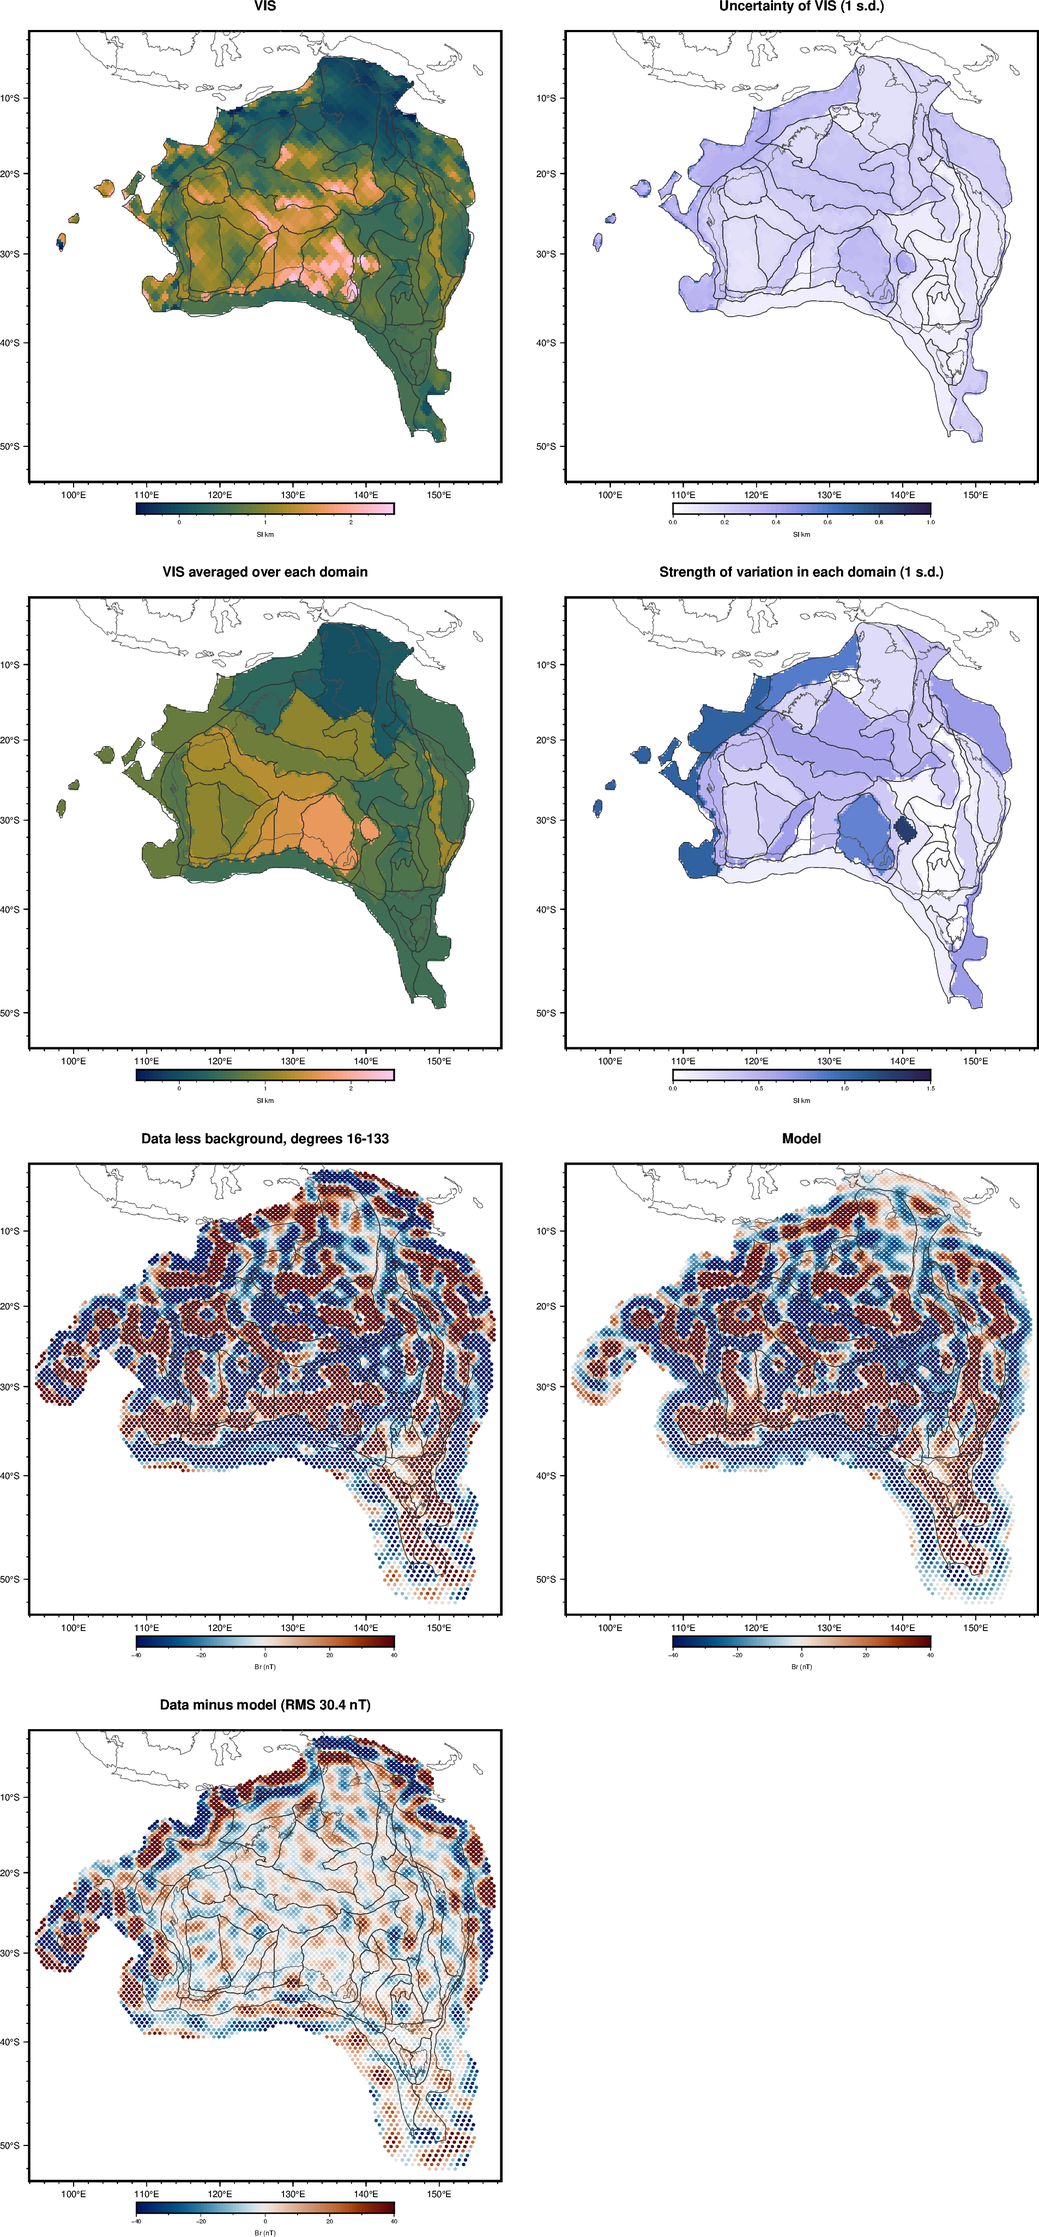
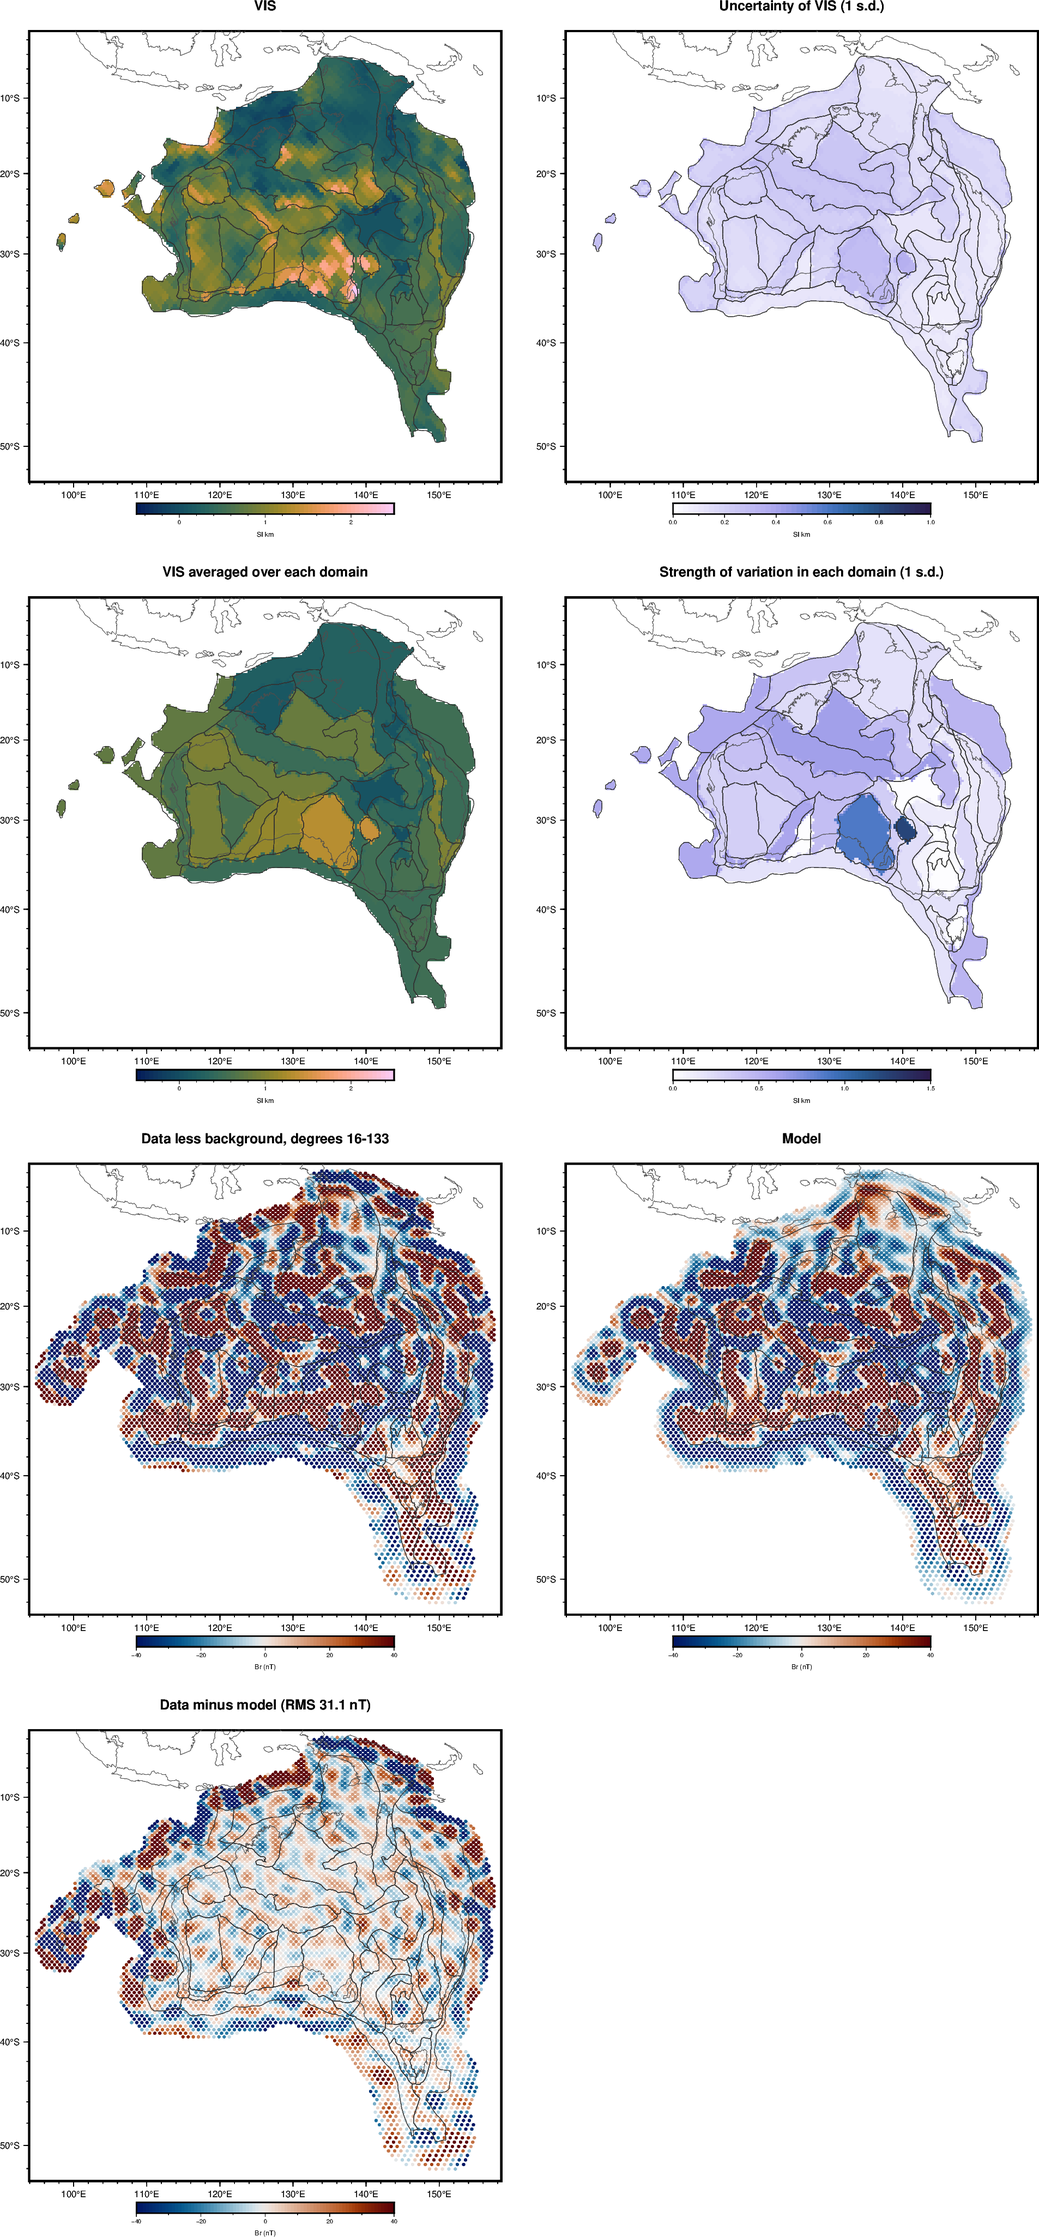
DF: a fitted extra error for the data ring around the target; profile over beta

diff --git a/remit/inversion/methods/df.py b/remit/inversion/methods/df.py
@@ -17,7 +17,11 @@ Config keys used, besides those of problem.local (weighting 'full', model_error 
   [parameterisation] kind = 'domains', table (as PD)
   [method] bounds ([lo, hi] of the means), beta_range, ell_range (km), s_range (SI km), noise ('fixed' or 'fitted'),
            hyper_sd (Laplace s.d. of the hyperparameters), layouts = {one = true, merge = <FD-merge result>,
-           merge_settings = [i, ...]} (further layouts, ranked by the evidence with the table's)
+           merge_settings = [i, ...]} (further layouts, ranked by the evidence with the table's),
+           ring_error = {beyond_km = 50} (an extra error at the data points farther than beyond_km from every cell
+           centre, i.e. the ring of points around the target: correlated with the field model's own spectrum in the
+           band, its RMS sigma_ring (nT) fitted; for errors of the background there, which no domain can explain),
+           beta_profile = [beta, ...] (the log evidence of the first layout with beta fixed at each value)
 """
 import json
 import time
@@ -64,8 +68,9 @@ def correlation(beta, ell, psi, window):
 class DomainFractal:
     """the DF model of one problem and one layout (label: domain index of each cell, 0..K-1)"""
 
-    def __init__(self, Gw, yw, label, clon, clat, cell_area_km2, lo, hi):
+    def __init__(self, Gw, yw, label, clon, clat, cell_area_km2, lo, hi, extra=()):
         self.Gw, self.yw, self.label = Gw, yw, np.asarray(label)
+        self.extra = list(extra)                    # error shapes E_j (data x data), each scaled by a fitted sigma_j
         self.K = int(self.label.max()) + 1
         self.S = parameterise.indicator(self.label)
         self.U = Gw @ self.S
@@ -96,17 +101,21 @@ class DomainFractal:
         return self._cache[key]
 
     def unpack(self, x, fit_h):
+        """x = log s_k (K), beta, log ell, [log h if fit_h], log sigma_j (one per extra error shape)"""
         s = np.exp(x[:self.K])
         beta, ell = x[self.K], np.exp(x[self.K + 1])
         h = np.exp(x[self.K + 2]) if fit_h else 1.
-        return s, beta, ell, h
+        sig = np.exp(np.asarray(x[self.K + 2 + int(fit_h):]))
+        return s, beta, ell, h, sig
 
-    def _solve(self, s, beta, ell, h):
+    def _solve(self, s, beta, ell, h, sig=()):
         M, Ls = self.factors(beta, ell)
         Ms = M*s[self.label]
         N = len(self.yw)
         C = Ms @ Ms.T
         C[np.diag_indices(N)] += h**2
+        for sj, E in zip(sig, self.extra):
+            C += sj**2*E
         cf = cho_factor(C, lower=True)
         CiU, Ciy = cho_solve(cf, self.U), cho_solve(cf, self.yw)
         A = self.U.T @ CiU
@@ -123,8 +132,8 @@ class DomainFractal:
 
     def gradient(self, x, fit_h=False):
         """(log evidence, gradient in x)"""
-        s, beta, ell, h = self.unpack(x, fit_h)
-        o = self._solve(s, beta, ell, h)
+        s, beta, ell, h, sig = self.unpack(x, fit_h)
+        o = self._solve(s, beta, ell, h, sig)
         M, CiU, q = o['M'], o['CiU'], o['q']
         N = len(self.yw)
         P = cho_solve(o['cf'], np.eye(N)) - CiU @ cho_solve(o['cA'], CiU.T)
@@ -138,21 +147,26 @@ class DomainFractal:
             g[j] = (self.evidence(x + e, fit_h) - self.evidence(x - e, fit_h))/(2*FD_STEP)
         if fit_h:
             g[self.K + 2] = h**2*(q @ q - np.trace(P))
+        for j, (sj, E) in enumerate(zip(sig, self.extra)):
+            g[self.K + 2 + int(fit_h) + j] = sj**2*(q @ E @ q - np.sum(P*E))
         return o['ll'], g
 
-    def bounds(self, s_range, beta_range, ell_range, fit_h):
+    def bounds(self, s_range, beta_range, ell_range, fit_h, sig_range=(0.1, 500.)):
         b = [tuple(np.log(s_range))]*self.K + [tuple(beta_range), tuple(np.log(ell_range))]
-        return b + [(np.log(0.2), np.log(5.))] if fit_h else b
+        return b + [(np.log(0.2), np.log(5.))]*int(fit_h) + [tuple(np.log(sig_range))]*len(self.extra)
 
     def fit(self, s_range=(1e-3, 10.), beta_range=(2., 3.), ell_range=(50., 5000.), fit_h=False, x0=None):
         if x0 is None:
-            x0 = np.r_[np.full(self.K, np.log(0.3)), np.mean(beta_range), np.log(500.), [0.] if fit_h else []]
+            x0 = np.r_[np.full(self.K, np.log(0.3)), np.mean(beta_range), np.log(500.), [0.] if fit_h else [],
+                       np.full(len(self.extra), np.log(30.))]
         bnds = self.bounds(s_range, beta_range, ell_range, fit_h)
+        x0 = np.clip(x0, [b[0] for b in bnds], [b[1] for b in bnds])
         f = lambda x: tuple(-a for a in self.gradient(x, fit_h))
         res = minimize(f, x0, jac=True, method='L-BFGS-B', bounds=bnds, options=dict(maxiter=2000, ftol=1e-11, gtol=1e-6))
-        s, beta, ell, h = self.unpack(res.x, fit_h)
-        at = np.array([np.isclose(v, lo, atol=1e-6) or np.isclose(v, hi, atol=1e-6) for v, (lo, hi) in zip(res.x, bnds)])
-        return dict(x=res.x, s=s, beta=float(beta), ell=float(ell), h=float(h), ll=float(-res.fun), fit_h=fit_h,
+        s, beta, ell, h, sig = self.unpack(res.x, fit_h)
+        at = np.array([lo < hi and (np.isclose(v, lo, atol=1e-6) or np.isclose(v, hi, atol=1e-6))
+                       for v, (lo, hi) in zip(res.x, bnds)])
+        return dict(x=res.x, s=s, beta=float(beta), ell=float(ell), h=float(h), sig=sig, ll=float(-res.fun), fit_h=fit_h,
                     at_bound=at, n_eval=int(res.nfev), converged=bool(res.success), message=str(res.message))
 
     def hyper_sd(self, fit, step=1e-3):
@@ -171,7 +185,7 @@ class DomainFractal:
 
     def posterior(self, fit, area):
         """posterior mean and s.d. of v, the process means theta, and the area mean of v over each domain"""
-        o = self._solve(fit['s'], fit['beta'], fit['ell'], fit['h'])
+        o = self._solve(fit['s'], fit['beta'], fit['ell'], fit['h'], fit.get('sig', ()))
         M, Ls, q = o['M'], o['Ls'], o['q']
         n = len(self.label)
         Lb = np.zeros((n, n))
@@ -192,8 +206,12 @@ class DomainFractal:
                     theta_sd=np.sqrt(np.diag(cov_theta)), avg=c.T @ v, avg_sd=np.sqrt(np.maximum(np.diag(cov_avg), 0)),
                     ll=o['ll'])
 
-    def no_variation(self, h=1.):
+    def no_variation(self, h=1., sig=()):
         """log evidence and chi2 with no pattern inside the domains (PD under this error model, means unbounded)"""
+        if len(sig):
+            o = self._solve(np.full(self.K, 1e-9), 2.5, 500., h, sig)
+            r = self.yw - self.U @ o['theta']
+            return o['ll'], float(r @ r), o['theta']
         N = len(self.yw)
         cA = cho_factor(self.U.T @ self.U/h**2, lower=True)
         theta = cho_solve(cA, self.U.T @ self.yw/h**2)
@@ -241,24 +259,41 @@ def run(cfg, cache=None, log=print):
     cell_km2 = 4*np.pi*R_KM**2/(12*cells.nside**2)
     lays, coverage = layouts(cells, cfg, cache, say)
     say(f'{len(lays)} layouts: {list(lays)}')
+    xyz_c, xyz_p = unit(cells.clon, cells.clat), unit(pb.plon, pb.plat)
+    dist_km = np.arccos(np.clip((xyz_p @ xyz_c.T).max(1), -1., 1.))*R_KM          # to the nearest cell centre
+    ring = dist_km > me.get('ring_error', {}).get('beyond_km', 50.)
+    extra = []
+    if me.get('ring_error'):
+        Wd = pb.W.toarray() if hasattr(pb.W, 'toarray') else np.asarray(pb.W)
+        Cr = errors.point_shape(pb.spectra['model'], pb.band, pb.plon[ring], pb.plat[ring])
+        extra = [Wd[:, ring] @ Cr @ Wd[:, ring].T]
+        say(f'ring error at {ring.sum()} of {len(ring)} points')
     ranking, main = {}, None
     for name, (label, names) in lays.items():
-        m = DomainFractal(pb.Gw, pb.yw, label, cells.clon, cells.clat, cell_km2, lo, hi)
+        m = DomainFractal(pb.Gw, pb.yw, label, cells.clon, cells.clat, cell_km2, lo, hi, extra)
         f = m.fit(fit_h=fit_h, **opts)
-        ll0, chi0, _ = m.no_variation()
+        ll0, chi0, _ = m.no_variation(sig=f['sig'])
         ranking[name] = dict(K=int(m.K), ll=f['ll'], ll_no_variation=ll0, beta=f['beta'], ell_km=f['ell'], h=f['h'],
-                             converged=f['converged'], n_eval=f['n_eval'])
+                             sigma_ring_nT=[float(v) for v in f['sig']], converged=f['converged'], n_eval=f['n_eval'])
         say(f'{name}: K {m.K}, log evidence {f["ll"]:.1f} (no variation {ll0:.1f}), beta {f["beta"]:.2f}, '
-            f'ell {f["ell"]:.0f} km, h {f["h"]:.2f}, {f["n_eval"]} evaluations' + ('' if f['converged'] else ' NOT CONVERGED'))
+            f'ell {f["ell"]:.0f} km, h {f["h"]:.2f}' + (f', ring error {f["sig"][0]:.1f} nT' if extra else '') +
+            f', {f["n_eval"]} evaluations' + ('' if f['converged'] else ' NOT CONVERGED'))
         if main is None:
             main = (name, m, f, names)
     name, m, f, names = main
+    profile = []
+    for b in me.get('beta_profile', []):
+        fb = m.fit(fit_h=fit_h, x0=np.r_[f['x'][:m.K], b, f['x'][m.K + 1:]], **{**opts, 'beta_range': (b, b)})
+        profile.append(dict(beta=float(b), ll=fb['ll'], ell_km=fb['ell'], h=fb['h'],
+                            sigma_ring_nT=[float(v) for v in fb['sig']]))
+        say(f'beta fixed at {b:.2f}: log evidence {fb["ll"]:.1f} ({fb["ll"] - f["ll"]:+.1f}), ell {fb["ell"]:.0f} km'
+            + (f', ring error {fb["sig"][0]:.1f} nT' if extra else ''))
     post = m.posterior(f, cells.area_km2)
     sd = m.hyper_sd(f) if me.get('hyper_sd', True) else np.full(len(f['x']), np.nan)
     say(f'posterior and hyperparameter s.d. of {name!r}')
     check = None
     if not fit_h:                                         # the noise scale fitted as a check
-        fh = m.fit(fit_h=True, x0=np.r_[f['x'], 0.], **opts)
+        fh = m.fit(fit_h=True, x0=np.r_[f['x'][:m.K + 2], 0., f['x'][m.K + 2:]], **opts)
         check = dict(h=fh['h'], ll=fh['ll'], beta=fh['beta'], ell_km=fh['ell'])
         say(f'check with the noise scale fitted: h {fh["h"]:.3f}, log evidence {fh["ll"]:.1f} (+{fh["ll"] - f["ll"]:.1f})')
     v, label = post['v'], m.label
@@ -268,8 +303,12 @@ def run(cfg, cache=None, log=print):
     r = pb.yw - pb.Gw @ v
     chi2 = float(r @ r)
     N = len(pb.yw)
-    ll0, chi0, _ = m.no_variation()
+    ll0, chi0, _ = m.no_variation(sig=f['sig'])
     K = m.K
+    res_pts = pb.y - pb.G @ v
+    rms = dict(onshore=float(np.sqrt(np.mean(res_pts[~ring]**2))), ring=float(np.sqrt(np.mean(res_pts[ring]**2))))
+    say(f'residual RMS: onshore {rms["onshore"]:.1f} nT, ring {rms["ring"]:.1f} nT'
+        + (f'; ring error {f["sig"][0]:.1f} nT' if extra else ''))
     table = {names[k]: dict(mean=float(post['avg'][k]), mean_sd=float(post['avg_sd'][k]),
                             theta=float(post['theta'][k]), theta_sd=float(post['theta_sd'][k]),
                             strength=float(f['s'][k]), log_strength_sd=float(sd[k]),
@@ -285,6 +324,7 @@ def run(cfg, cache=None, log=print):
     model = pb.G @ v
     attrs = dict(domains=table, layout=name, layouts=ranking, beta=f['beta'], beta_sd=float(sd[K]), ell_km=f['ell'],
                  log_ell_sd=float(sd[K + 1]), noise_scale=f['h'], noise_check=check, log_evidence=f['ll'],
+                 sigma_ring_nT=[float(v) for v in f['sig']], residual_rms_nT=rms, beta_profile=profile,
                  log_evidence_no_variation=ll0, chi2_per_datum=chi2/N, chi2_per_datum_no_variation=chi0/N,
                  n_domains=K, node_coverage=coverage, bounds=[lo, hi], means_outside_box=out_box,
                  cells_below_zero=float(np.mean(v < 0)),

diff --git a/remit/inversion/problem.py b/remit/inversion/problem.py
@@ -49,6 +49,8 @@ class Local:
     truth: np.ndarray = None
     info: dict = field(default_factory=dict)
     draw: object = None             # draw(rng, model_error=True) -> an error-model realisation at the points (nT)
+    band: object = None
+    spectra: dict = None            # Lowes spectra of the noise and of the field model ('noise', 'model')
 
     @functools.cached_property
     def Gw(self):
@@ -159,4 +161,5 @@ def local(cfg, cache, say=print):
     info = dict(n_points=len(plon), n_data=n_data, noise_rms=sn, model_error_rms=s, weighting=weighting)
     say(f'{len(cells)} cells (NSIDE {cells.nside}), {len(plon)} points, {n_data} data ({weighting}); noise RMS '
         f'{sn:.1f} nT, model error RMS {s:.1f} nT ({time.time() - t0:.0f} s)')
-    return Local(cells, fine, parent, mask, plon, plat, G, y, W, truth, info, draw)
+    return Local(cells, fine, parent, mask, plon, plat, G, y, W, truth, info, draw, band,
+                 dict(noise=R_noise, model=R_model))

diff --git a/tests/test_inversion_df.py b/tests/test_inversion_df.py
@@ -74,3 +74,17 @@ def test_no_variation_is_the_limit_of_small_strengths():
     m, _ = small(2)
     x = np.r_[np.full(m.K, np.log(1e-7)), 2.5, np.log(300.)]
     assert abs(m.evidence(x) - m.no_variation()[0]) < 1e-6
+
+
+def test_gradient_with_an_extra_error_shape():
+    m0, rng = small(3)
+    B = rng.standard_normal((len(m0.yw), 5))
+    m = df.DomainFractal(m0.Gw, m0.yw, m0.label, *np.zeros((2, len(m0.label))), 1e4, 0., 4., extra=[B @ B.T/5])
+    m.psi, m.psi_max = m0.psi, m0.psi_max
+    x = np.r_[np.log([0.3, 0.6, 0.2]), 2.4, np.log(350.), np.log(1.2), np.log(0.7)]
+    _, g = m.gradient(x, fit_h=True)
+    for j in range(len(x)):
+        e = np.zeros(len(x))
+        e[j] = 1e-5
+        fd = (m.evidence(x + e, True) - m.evidence(x - e, True))/2e-5
+        assert abs(g[j] - fd) < 1e-4*max(1, abs(fd)), (j, g[j], fd)

diff --git a/docs/inversion-toolbox-spec.md b/docs/inversion-toolbox-spec.md
@@ -122,7 +122,7 @@ Built in now, because they would be expensive to retrofit:
 
 Deferred: ocean remanence (cells, signed amplitudes, polarity), multiple VIS layers, the viewer's detailed design.
 
-Stage 5 (agreed 2026-10-09; [ADR 0007](adr/0007-domain-fractal-model.md)): **DF** (domain fractal), *domains with internal variation*. VIS = the mean of the cell's domain + a Gaussian pattern, independent between domains, with strength s_k in domain k. Pattern: the cell-averaged restriction to each domain of an isotropic field on the sphere with angular spectrum S_l proportional to (l(l+1) + (R/ell)^2)^(-beta/2) times the HEALPix pixel window, summed by Legendre series (`errors.legendre_sum`), so it is positive definite on the sphere for any beta; unit variance, beta in 2-3 and ell (largest patch size) shared, s_k per domain. Means: indicator columns of the layout, uniform on 0-4 SI·km (the core's box prior). Error: measurement noise only (no model-error term). Evidence on the whitened data directly (845 dimensions: a Cholesky of h^2 I + sum_k s_k^2 M_k M_k', M_k = Gw_k L_k), with exact gradients in log s_k, beta and log ell; noise scale fixed by the error model, a free scale h fitted as a check. Layouts: a polygon table (as PD), a merge partition (as CR's labels), or 'one' (the whole area); each run ranks the layouts it is given by the evidence. Outputs: per domain mean and strength with s.d., beta and ell with s.d., the posterior mean and s.d. per cell, the share of each domain below zero (bounded map where it matters), chi^2, evidence per layout; maps as for PD. Tests: unit (covariance against a direct sum, positive definite; evidence against the dense formula; gradients against finite differences); synthetic (truths drawn from DF on PD's domains, recovered within the error bars across 20 noise draws; the realistic truth of provinces with ~200 km variation, not fractal); real data: DF-AUS on PD's 39 domains, the merge partition and 'one', compared with PD's misfit. v2: sample the strengths, beta and ell (MCMC) so the means carry their uncertainty. First results (2026-10-09, `methods/df.py`, `acceptance/stage5_df.py`): own-model truths (20 draws) give domain averages within 2 s.d. in 90% (z s.d. 1.21; the process means 85%, z s.d. 1.8: the plug-in hyperparameters make error bars too small, which v2 addresses), beta 2.59 +- 0.28 (true 2.5), ell within a factor 2, strengths of the larger half of the domains to 0.66 in log (the smaller half undetermined); the realistic truth gives domain averages within 2 s.d. in 67% (RMS error 0.074 SI km). DF-AUS: the internal patterns raise the evidence by 3600 over no variation, and the onshore residual falls from 55 nT (PD) to 16 nT (noise 20 nT), but the data in the 300 km ring offshore keep 52 nT, which no domain can explain (background errors or sources outside the target), so the misfit stays 3.2 times the noise variance and a fitted noise scale comes out at 2.5 (+842 in log evidence, beta then 3.0 instead of 2.0: beta sits at a bound of the published range either way). Layouts: the FD-merge partition (K 14) beats the 39 polygon domains by 212, which beat one domain by 62.
+Stage 5 (agreed 2026-10-09; [ADR 0007](adr/0007-domain-fractal-model.md)): **DF** (domain fractal), *domains with internal variation*. VIS = the mean of the cell's domain + a Gaussian pattern, independent between domains, with strength s_k in domain k. Pattern: the cell-averaged restriction to each domain of an isotropic field on the sphere with angular spectrum S_l proportional to (l(l+1) + (R/ell)^2)^(-beta/2) times the HEALPix pixel window, summed by Legendre series (`errors.legendre_sum`), so it is positive definite on the sphere for any beta; unit variance, beta in 2-3 and ell (largest patch size) shared, s_k per domain. Means: indicator columns of the layout, uniform on 0-4 SI·km (the core's box prior). Error: measurement noise only (no model-error term). Evidence on the whitened data directly (845 dimensions: a Cholesky of h^2 I + sum_k s_k^2 M_k M_k', M_k = Gw_k L_k), with exact gradients in log s_k, beta and log ell; noise scale fixed by the error model, a free scale h fitted as a check. Layouts: a polygon table (as PD), a merge partition (as CR's labels), or 'one' (the whole area); each run ranks the layouts it is given by the evidence. Outputs: per domain mean and strength with s.d., beta and ell with s.d., the posterior mean and s.d. per cell, the share of each domain below zero (bounded map where it matters), chi^2, evidence per layout; maps as for PD. Tests: unit (covariance against a direct sum, positive definite; evidence against the dense formula; gradients against finite differences); synthetic (truths drawn from DF on PD's domains, recovered within the error bars across 20 noise draws; the realistic truth of provinces with ~200 km variation, not fractal); real data: DF-AUS on PD's 39 domains, the merge partition and 'one', compared with PD's misfit. v2: sample the strengths, beta and ell (MCMC) so the means carry their uncertainty. First results (2026-10-09, `methods/df.py`, `acceptance/stage5_df.py`): own-model truths (20 draws) give domain averages within 2 s.d. in 90% (z s.d. 1.21; the process means 85%, z s.d. 1.8: the plug-in hyperparameters make error bars too small, which v2 addresses), beta 2.59 +- 0.28 (true 2.5), ell within a factor 2, strengths of the larger half of the domains to 0.66 in log (the smaller half undetermined); the realistic truth gives domain averages within 2 s.d. in 67% (RMS error 0.074 SI km). DF-AUS: the internal patterns raise the evidence by 3600 over no variation, and the onshore residual falls from 55 nT (PD) to 16 nT (noise 20 nT), but the data in the 300 km ring offshore keep 52 nT, which no domain can explain (background errors or sources outside the target), so the misfit stays 3.2 times the noise variance and a fitted noise scale comes out at 2.5 (+842 in log evidence, beta then 3.0 instead of 2.0: beta sits at a bound of the published range either way). Layouts: the FD-merge partition (K 14) beats the 39 polygon domains by 212, which beat one domain by 62. With an extra error of its own for the data in that ring (`ring_error`: correlated like the field model, its RMS fitted; agreed 2026-10-09) the ring error comes out at 62 nT, the log evidence rises by 865 (more than the 842 of a noise scale fitted everywhere), the onshore residual stays 16 nT, and a noise scale fitted on top gains only 24 (h 1.77). The profile of the evidence over beta (1-4, the other hyperparameters refitted) peaks at 2.0 and is flat: 1.5 to 3.0 all lie within 2.5 log units, beta trading off against the patch size (ell 3400 km at beta 1.75, 200 km at 3.0), so the data favour beta about 2 but cannot pin it down; Laplace s.d. 0.28.
 
 ## Spherical geometry
 
